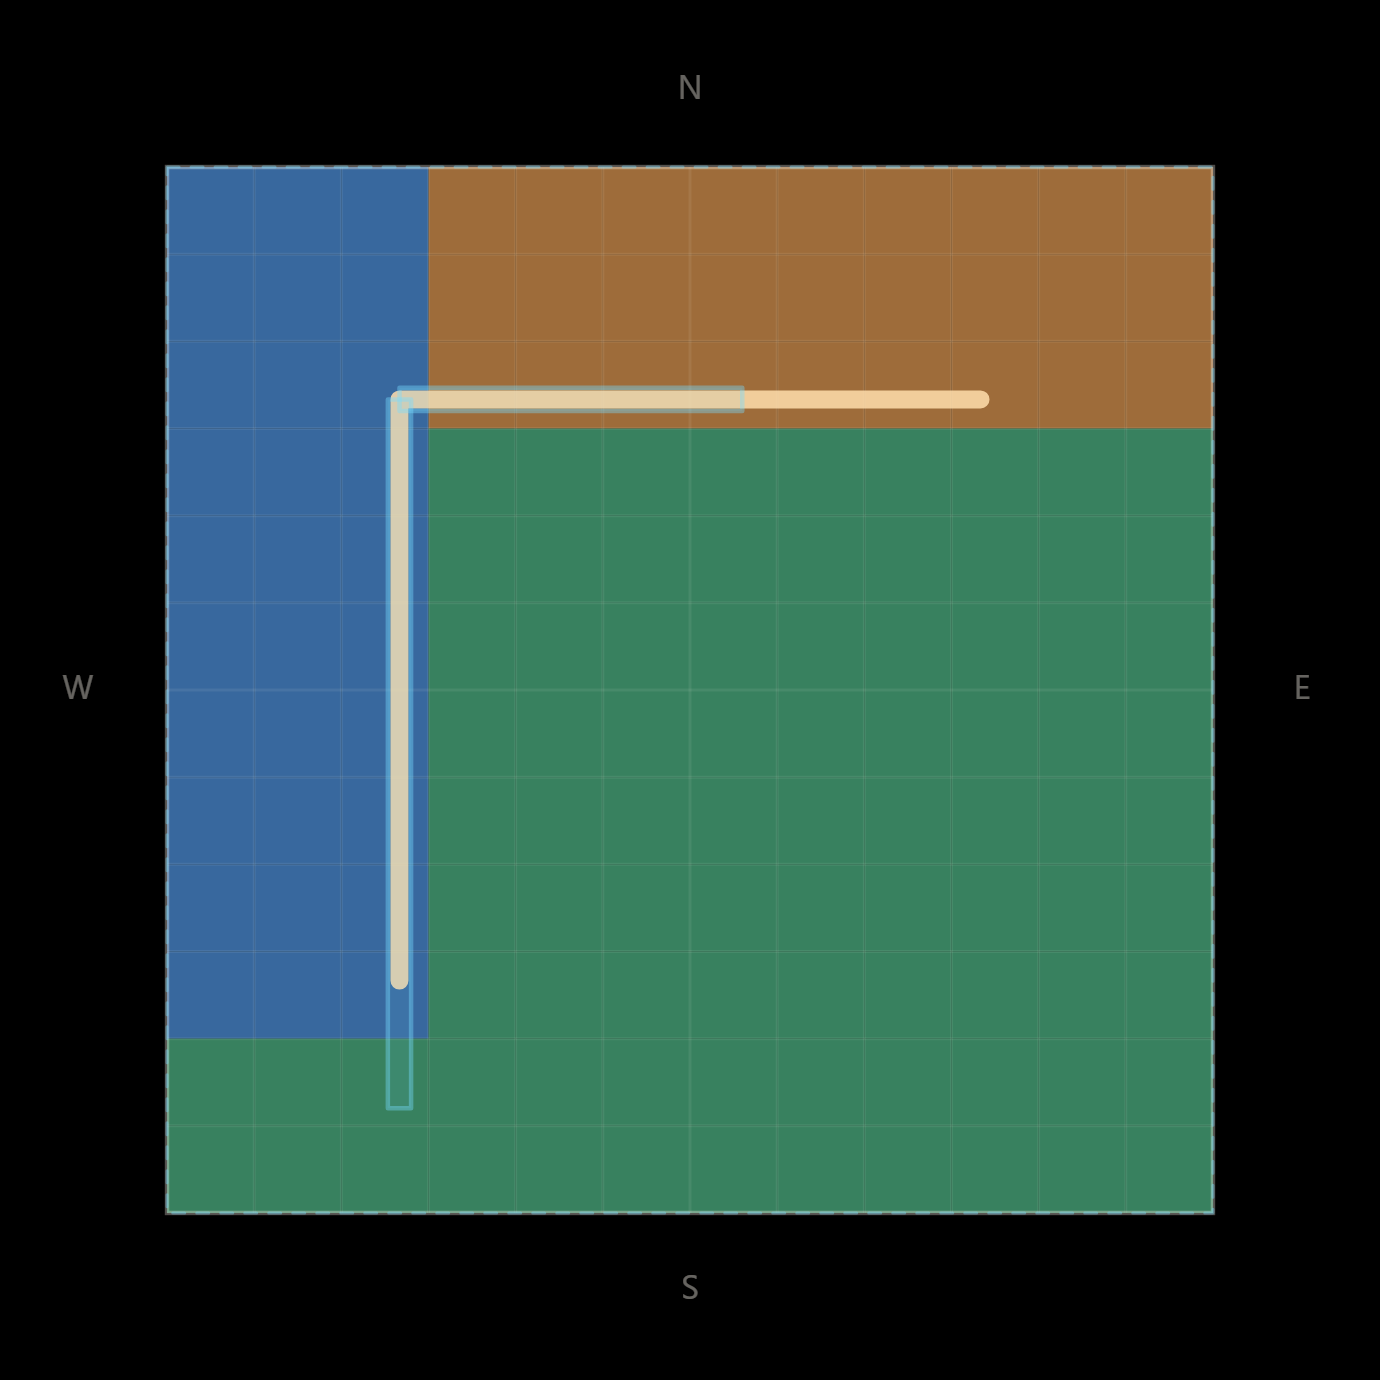
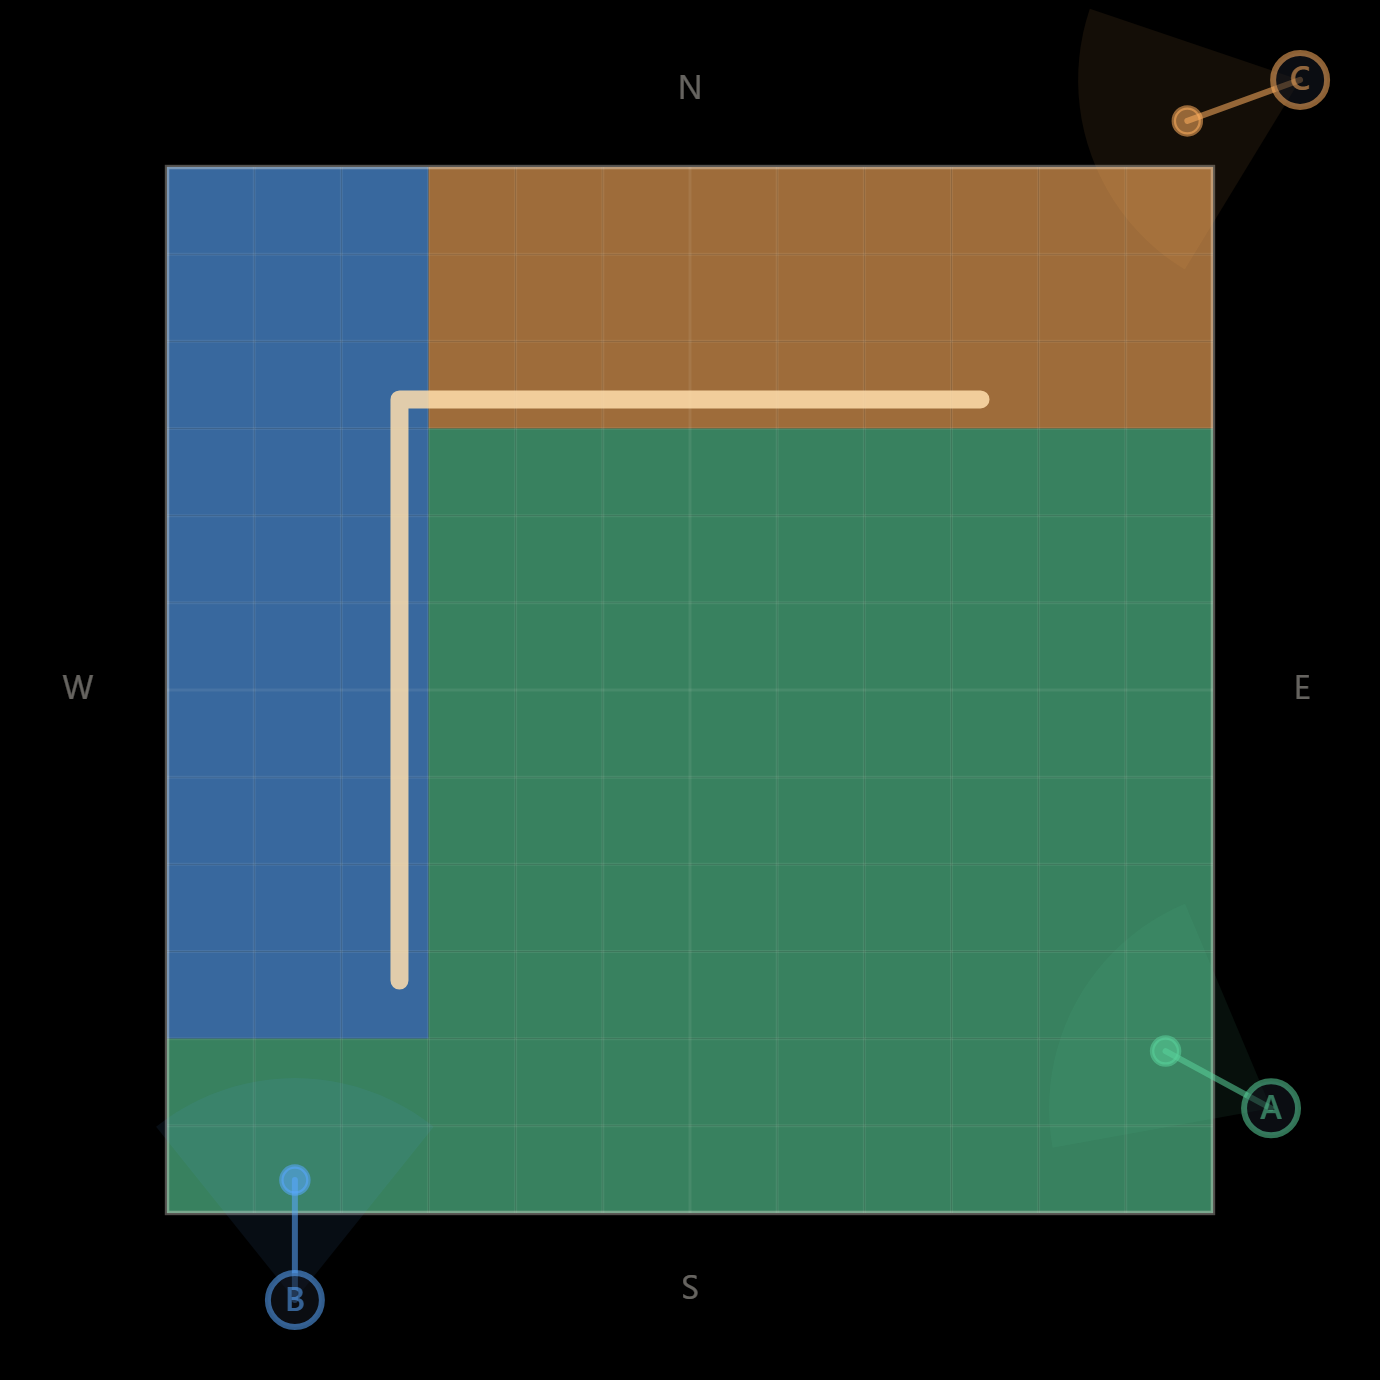
feat：フロアマップの抜き版から部屋のプロキシを外し、カメラ A〜C を出した
- 水色の細枠（layout.room.walls）は描かない。壁はクリームの L 字 1 本だけ
- カメラは floormap.js の drawCameraPoses の写し（本体・向き・画角の扇）。
  床を 1 枚も塗っていないカメラ D は出さない
- memory/web_compositor.md の構成ファイル表に 1 行足した

diff --git a/tools/web-compositor/floormap-plate.html b/tools/web-compositor/floormap-plate.html
@@ -5,7 +5,7 @@
 <title>フロアマップ（壁と塗りだけ）</title>
 <!--
   卓のフロアマップから「壁」と「塗られた床」だけを抜いた版。
-  位置合わせ点・カメラ姿勢・通過ライン・開始位置は描かない。
+  位置合わせ点・通過ライン・開始位置・部屋のプロキシは描かない。
 
   ⚠ 配色と幾何は floormap.js / palette.js / room-model.js からそのまま持ってくる。
     ここで色や寸法を決め直さない（卓と別物になると「塗ったはずの色と違う」が起きる）。
@@ -23,8 +23,7 @@
 <body>
 <canvas id="c"></canvas>
 <script type="module">
-import { camColor, GEO } from './palette.js';
-import { roomFromLayout, wallFootprint, floorRect, roomHasData } from './room-model.js';
+import { camColor } from './palette.js';
 
 // ---- floormap.js render() の写し -------------------------------------------
 const SIZE = 460, PAD = 46, EXTENT = 0.95;
@@ -41,7 +40,9 @@ cv.style.width = cv.style.height = SIZE + 'px';
 const ctx = cv.getContext('2d');
 ctx.scale(DPR, DPR);
 
-const layout = await fetch('/state?rev=0').then((r) => r.json()).then((s) => s.layout);
+const state = await fetch('/state?rev=0').then((r) => r.json());
+const layout = state.layout;
+const layout_cameras = state.cameras || [];
 const g = layout.grid;
 const f = layout.floor;
 const fw = f.w / 2, fd = f.d / 2;
@@ -107,31 +108,55 @@ if (w) {
   ctx.stroke();
 }
 
-// ---- 部屋のプロキシ（実機で人形を隠す壁。drawRoom の薄い方）-----------------
-const { room, hasRoom } = roomFromLayout(layout);
-if (room && hasRoom) {
+// ---- カメラ（drawCameraPoses の写し。編集モードではないので alpha 0.55）-----
+//   床を塗っていないカメラは出さない（D は担当タイルが 1 枚も無い）。
+const owners = new Set();
+for (const row of g.cells) for (const ch of row) if (/[0-8]/.test(ch)) owners.add(+ch);
+
+const POSE_HANDLE_PX = 40;
+const yawDir = (deg) => { const r = (deg || 0) * Math.PI / 180; return { dx: Math.sin(r), dz: Math.cos(r) }; };
+
+for (let i = 0; i < layout_cameras.length; i++) {
+  const p = layout_cameras[i].pose;
+  if (!p || !owners.has(i)) continue;
+  const [px, py] = courseToPx(p.x, p.z);
+  const d = yawDir(p.yawDeg);
+  const col = camColor(i);
+
   ctx.save();
-  ctx.globalAlpha = 0.4;
-  if (roomHasData(room)) {
-    const fr = floorRect(room);
-    const [x0, y0] = courseToPx(fr.xLo, fr.zHi);
-    const [x1, y1] = courseToPx(fr.xHi, fr.zLo);
-    ctx.setLineDash([4, 4]);
-    ctx.strokeStyle = GEO.wall; ctx.lineWidth = 1;
-    ctx.strokeRect(x0, y0, x1 - x0, y1 - y0);
-    ctx.setLineDash([]);
+  ctx.globalAlpha = 0.55;
+
+  // 画角の扇（水平画角。人形が入るかを見るための目安）
+  const fov = Math.max(10, Math.min(170, p.hfovDeg || 70)) * Math.PI / 180;
+  const base = Math.atan2(d.dx, d.dz);
+  const rad = 74;
+  ctx.beginPath();
+  ctx.moveTo(px, py);
+  for (let t = -fov / 2; t <= fov / 2 + 1e-4; t += fov / 24) {
+    const a = base + t;
+    ctx.lineTo(px + Math.sin(a) * rad, py - Math.cos(a) * rad);
   }
-  for (const wall of room.walls) {
-    const pts = wallFootprint(wall);
-    if (!pts.length) continue;
-    const path = () => {
-      ctx.beginPath();
-      pts.forEach((q, i) => { const [x, y] = courseToPx(q.x, q.z); i ? ctx.lineTo(x, y) : ctx.moveTo(x, y); });
-      ctx.closePath();
-    };
-    ctx.save(); path(); ctx.fillStyle = GEO.wall; ctx.globalAlpha *= 0.24; ctx.fill(); ctx.restore();
-    ctx.save(); path(); ctx.strokeStyle = GEO.wall; ctx.lineWidth = 1.5; ctx.stroke(); ctx.restore();
-  }
+  ctx.closePath();
+  ctx.fillStyle = col;
+  ctx.globalAlpha *= 0.14;
+  ctx.fill();
+  ctx.globalAlpha = 0.55;
+
+  // 向きハンドル
+  const hx = px + d.dx * POSE_HANDLE_PX, hy = py - d.dz * POSE_HANDLE_PX;
+  ctx.beginPath(); ctx.moveTo(px, py); ctx.lineTo(hx, hy);
+  ctx.strokeStyle = col; ctx.lineWidth = 2; ctx.stroke();
+  ctx.beginPath(); ctx.arc(hx, hy, 4.5, 0, Math.PI * 2);
+  ctx.fillStyle = col; ctx.fill();
+  ctx.lineWidth = 1.5; ctx.strokeStyle = col; ctx.stroke();
+
+  // カメラ本体
+  ctx.beginPath(); ctx.arc(px, py, 9, 0, Math.PI * 2);
+  ctx.fillStyle = '#141820'; ctx.fill();
+  ctx.lineWidth = 2; ctx.strokeStyle = col; ctx.stroke();
+  ctx.fillStyle = col; ctx.font = 'bold 11px system-ui, sans-serif';
+  ctx.textAlign = 'center'; ctx.textBaseline = 'middle';
+  ctx.fillText(layout_cameras[i].id || String(i), px, py + 0.5);
   ctx.restore();
 }
 

diff --git a/.claude/memory/web_compositor.md b/.claude/memory/web_compositor.md
@@ -115,6 +115,7 @@ rules/streaming.md「show.json = 設定契約」/ plans/2026-06-16_web-config-to
 | `capture-server.py` | ローカルサーバ（静的配信 + show 制御 + /cam プロキシ + 保存 API） |
 | `serve.ps1` | 起動スクリプト |
 | `sim.html` / `sim.js` | Unity なしで動作確認する仮想 Quest（show.json long-poll。schedule / course.order も表示） |
+| `floormap-plate.html` | **人に見せる用のフロアマップ**（2026-08-24）。壁・塗られた床・カメラ A〜C だけを、卓と同じ配色・同じ座標で描く。位置合わせ点 / 通過ライン / 開始位置 / 部屋のプロキシは出さない。⚠ **配色は `palette.js` を import。描画定数（SIZE 460 / PAD 46 / EXTENT 0.95 / 各 alpha / 線幅）は `floormap.js` の `render()` の写しなので、向こうを変えたらここも変える。** PNG は headless Chrome の `--screenshot` で焼く（`?scale=N` で倍率・`?bg=none` で透過） |
 | `schedule.js` | **タイムライン UI**（2026-07-19 マトリクスから全面改装）。「1周目: A\|B\|C → 2周目: …」を course.order 順に横連結、区間クリックで cue 割当（delaySec / once）。データモデルは schedule.entries のまま。**⚠ タイムラインで直接いじれるのは cueId / delaySec / once の 3 つだけ**。マスク・素材・フェード・trim は cue 側（カメラ列で作成 → 周ごとに別 cue を割当）、**画像加工 post はカメラ単位で周ごと変更不可**（rules/streaming.md「編集の粒度と自由度」が正） |
 
 **撤去済み（2026-06-16）**: `main.js` / `sources.js` / `cue-editor.js` / `console.js` / `multicam.html`（プロンプト・ギャラリー・2 タブ・別ページ合成エディタ）。**⚠ `pipeline.js`（色統計マッチング→ラプラシアン）はユーザー要望で復活し現役**（app.js が import、境界ブレンドバーが駆動）。以降の「合成パイプライン」節は現役の説明として読む。AI 動画生成の知見は末尾に残す。
